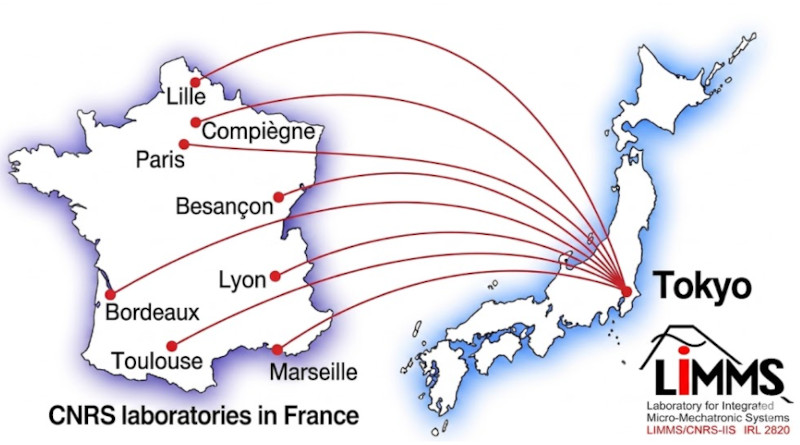
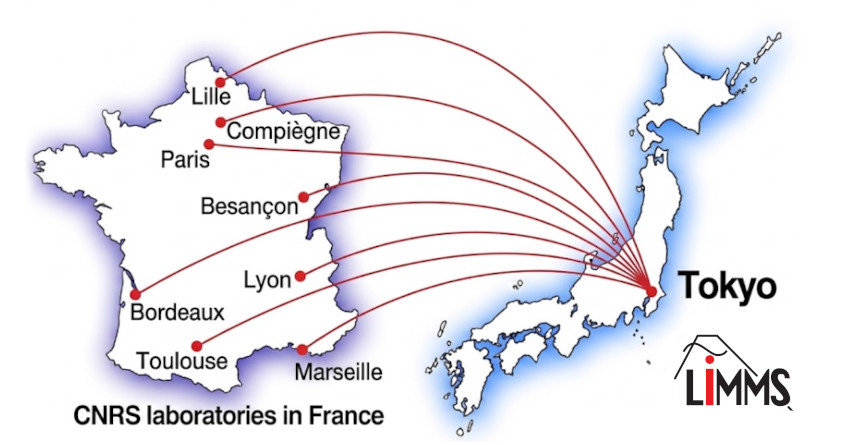
Small correction

diff --git a/content/english/_index.md b/content/english/_index.md
@@ -11,7 +11,7 @@ Due to its close integration into the French, European and Japanese research com
 
 </br>
 </br>
-{{< image src="images/map_limms.jpg" caption="" alt="alter-text" height="" width="80%" position="center" command="fill" option="q100" class="img-fluid" title="image title"  webp="false" >}}
+{{< image src="images/map_limms.jpg" caption="" alt="alter-text" height="" width="" position="center" command="fill" option="q100" class="img-fluid" title="image title"  webp="false" >}}
 </br>
 </br>
 
@@ -38,7 +38,7 @@ BioMEMS such as platforms with multi-modal sensors and actuators are developed i
 
     {{< /accordion >}}
 
-{{< image src="images/limms-axes.png" caption="" alt="alter-text" height="" width="" position="center" command="fill" option="q100" class="img-fluid" title="image title"  webp="false" >}}
+{{< image src="images/limms-axes.jpg" caption="" alt="alter-text" height="" width="" position="center" command="fill" option="q100" class="img-fluid" title="image title"  webp="false" >}}
 </br>
 </br>
 